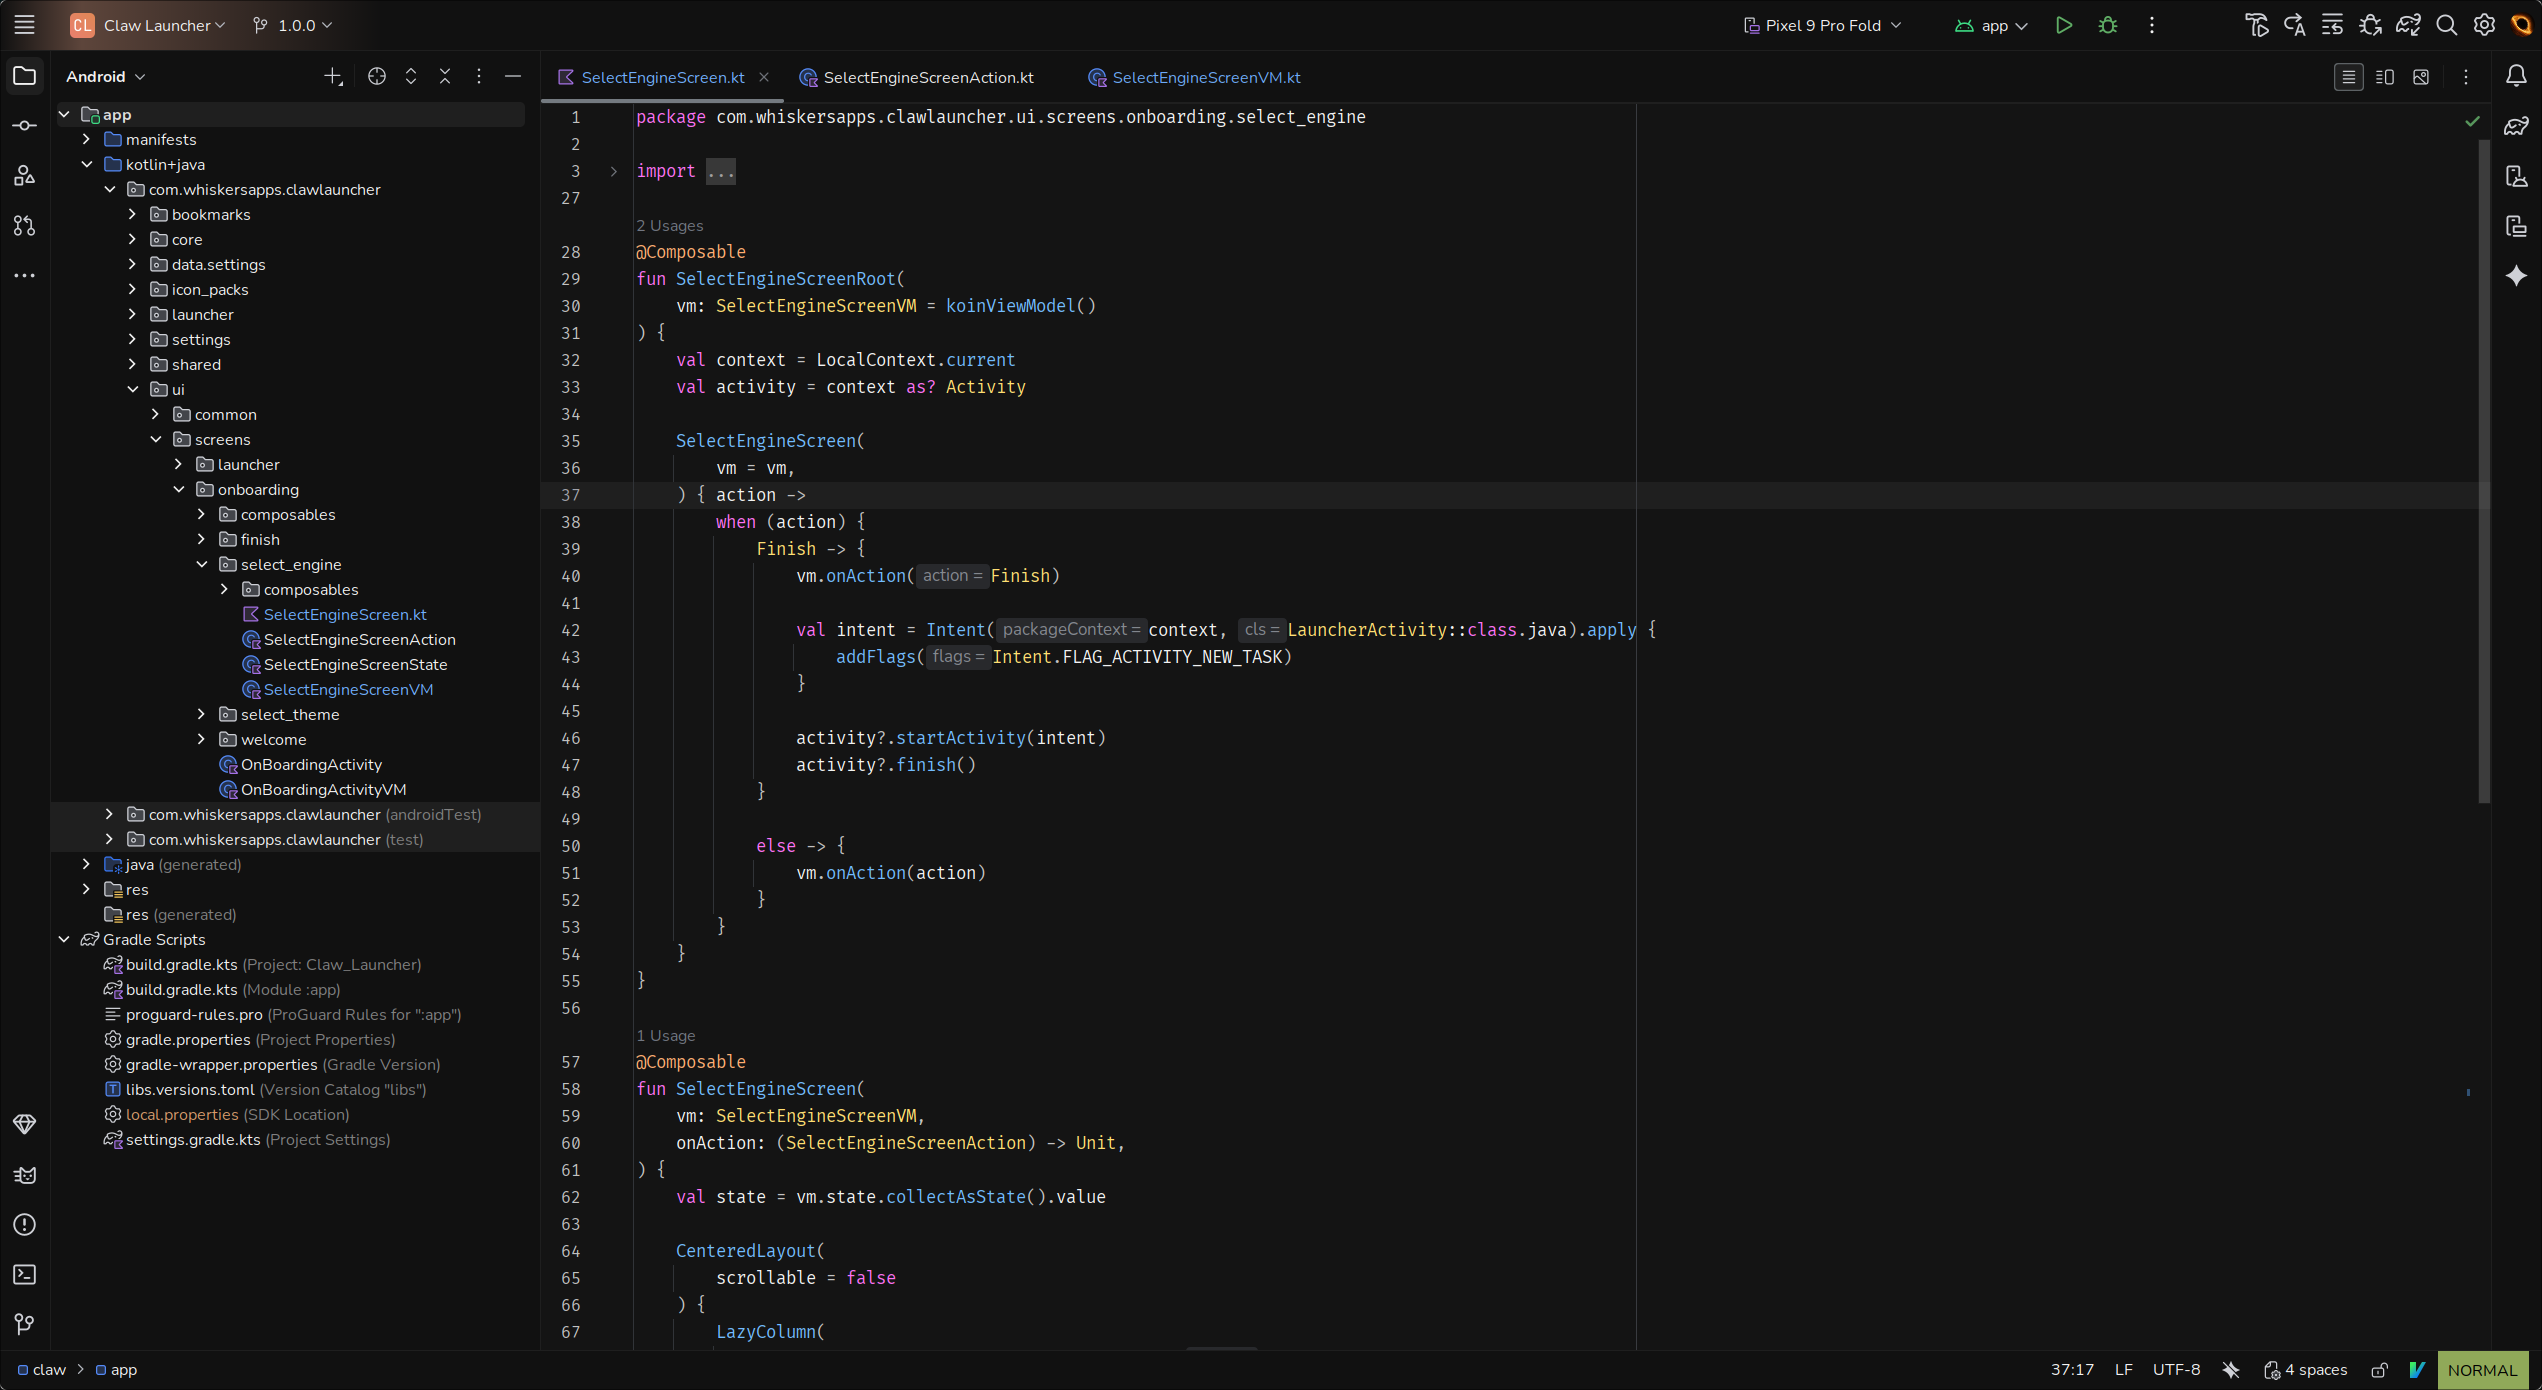
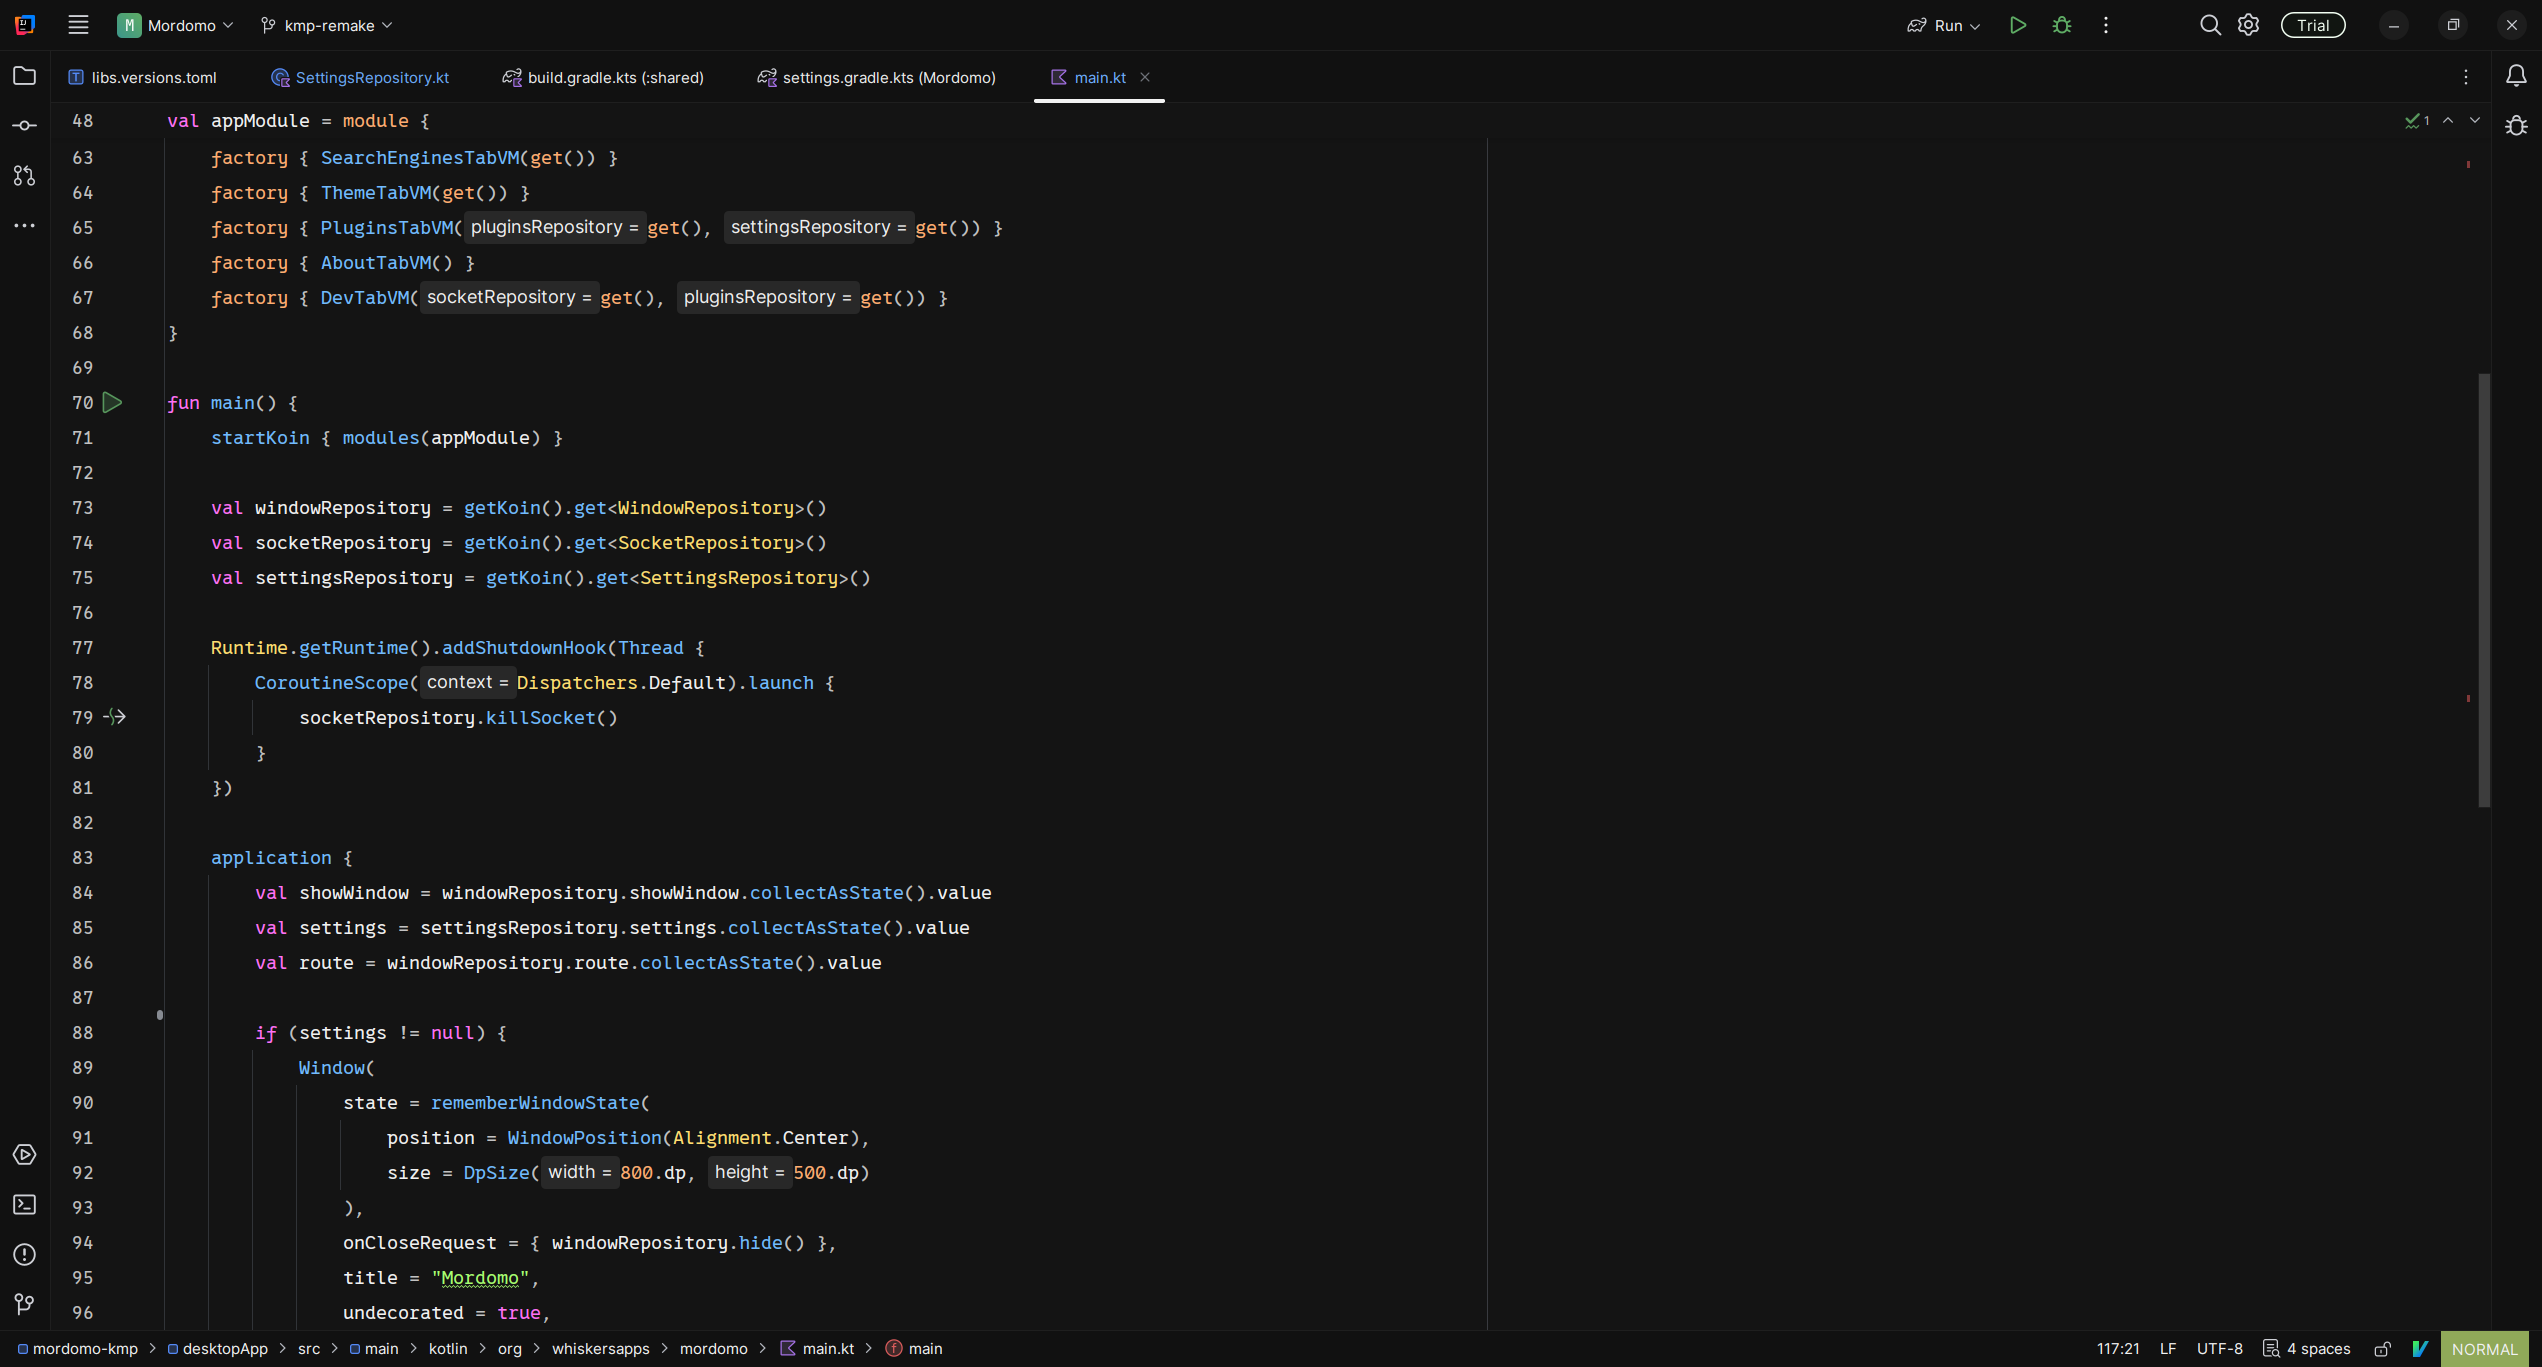
update(readme): added lynx preview

diff --git a/README.md b/README.md
@@ -5,6 +5,7 @@
   # Mono Code for Idea
 
   <div>
+      <img src="./lynx-preview.png" width="400">
       <img src="./panther-preview.png" width="400">
   </div>
 </div>
